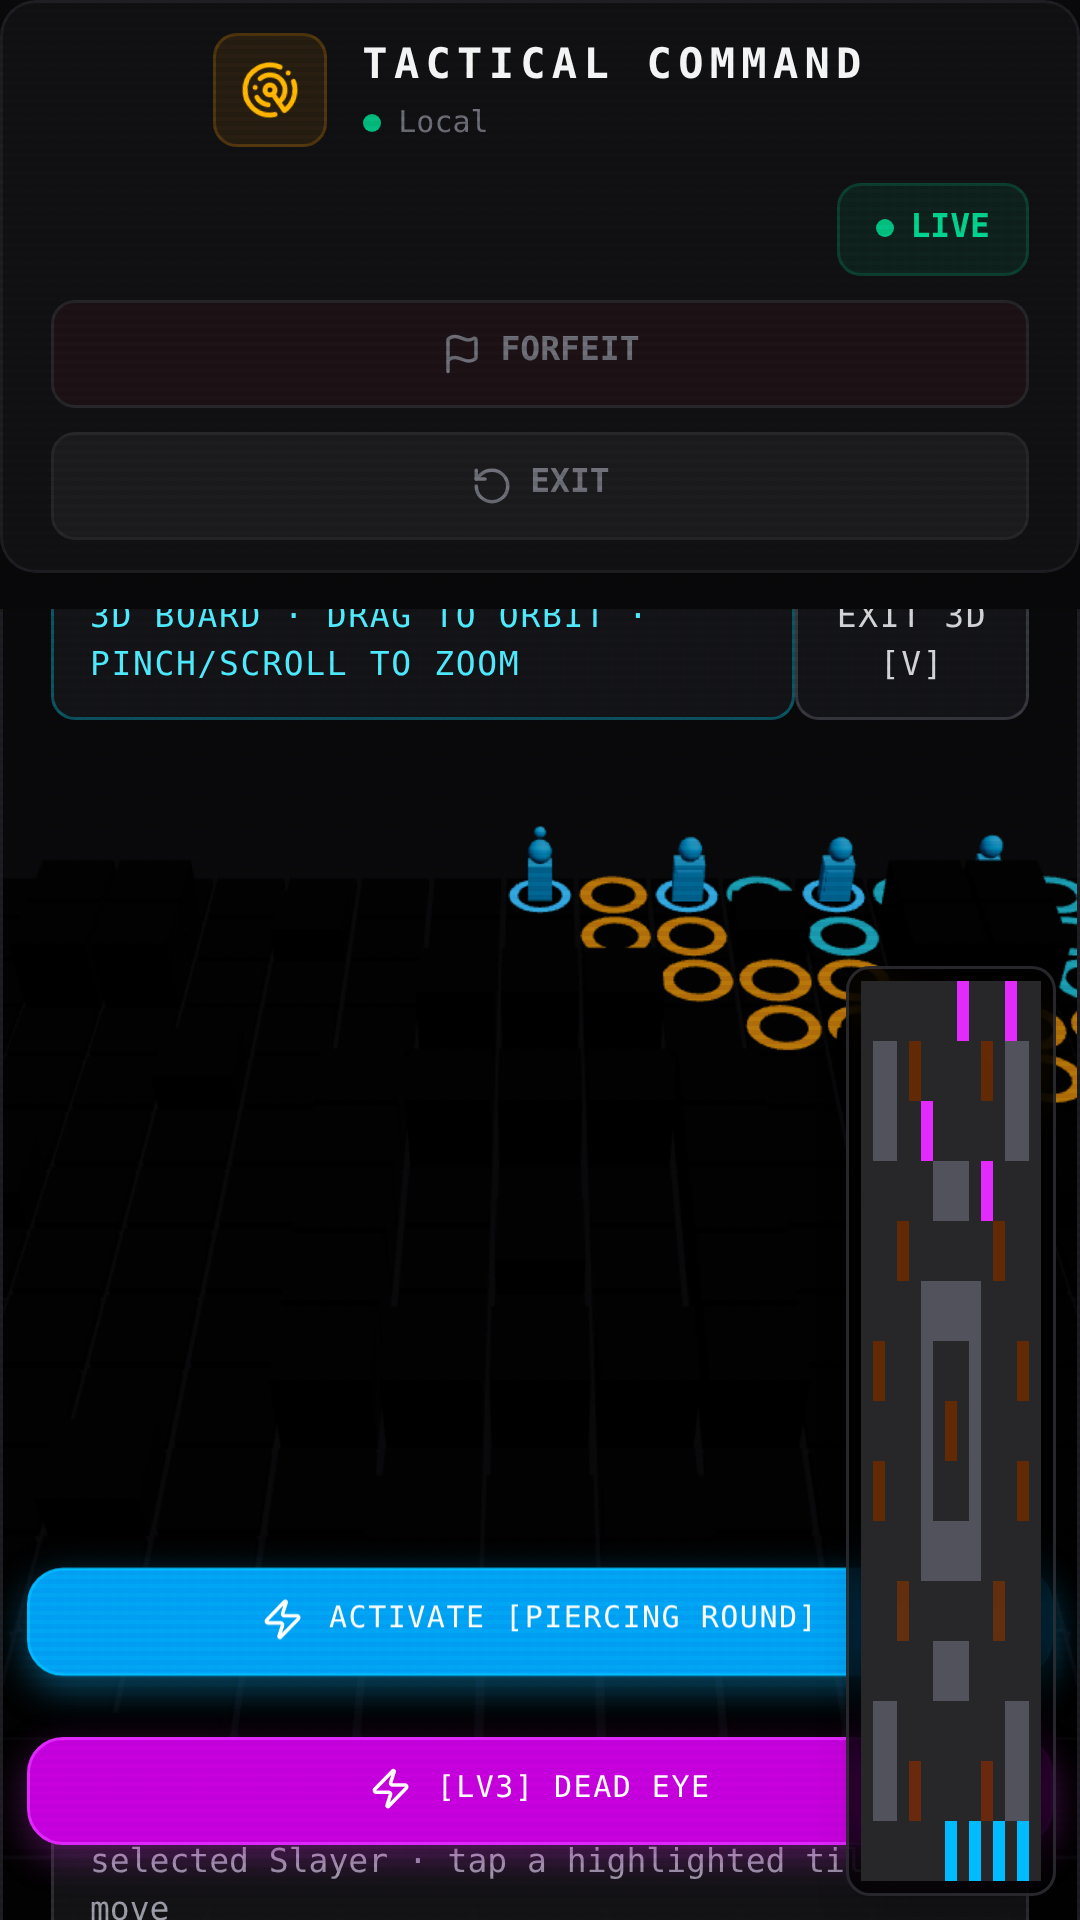
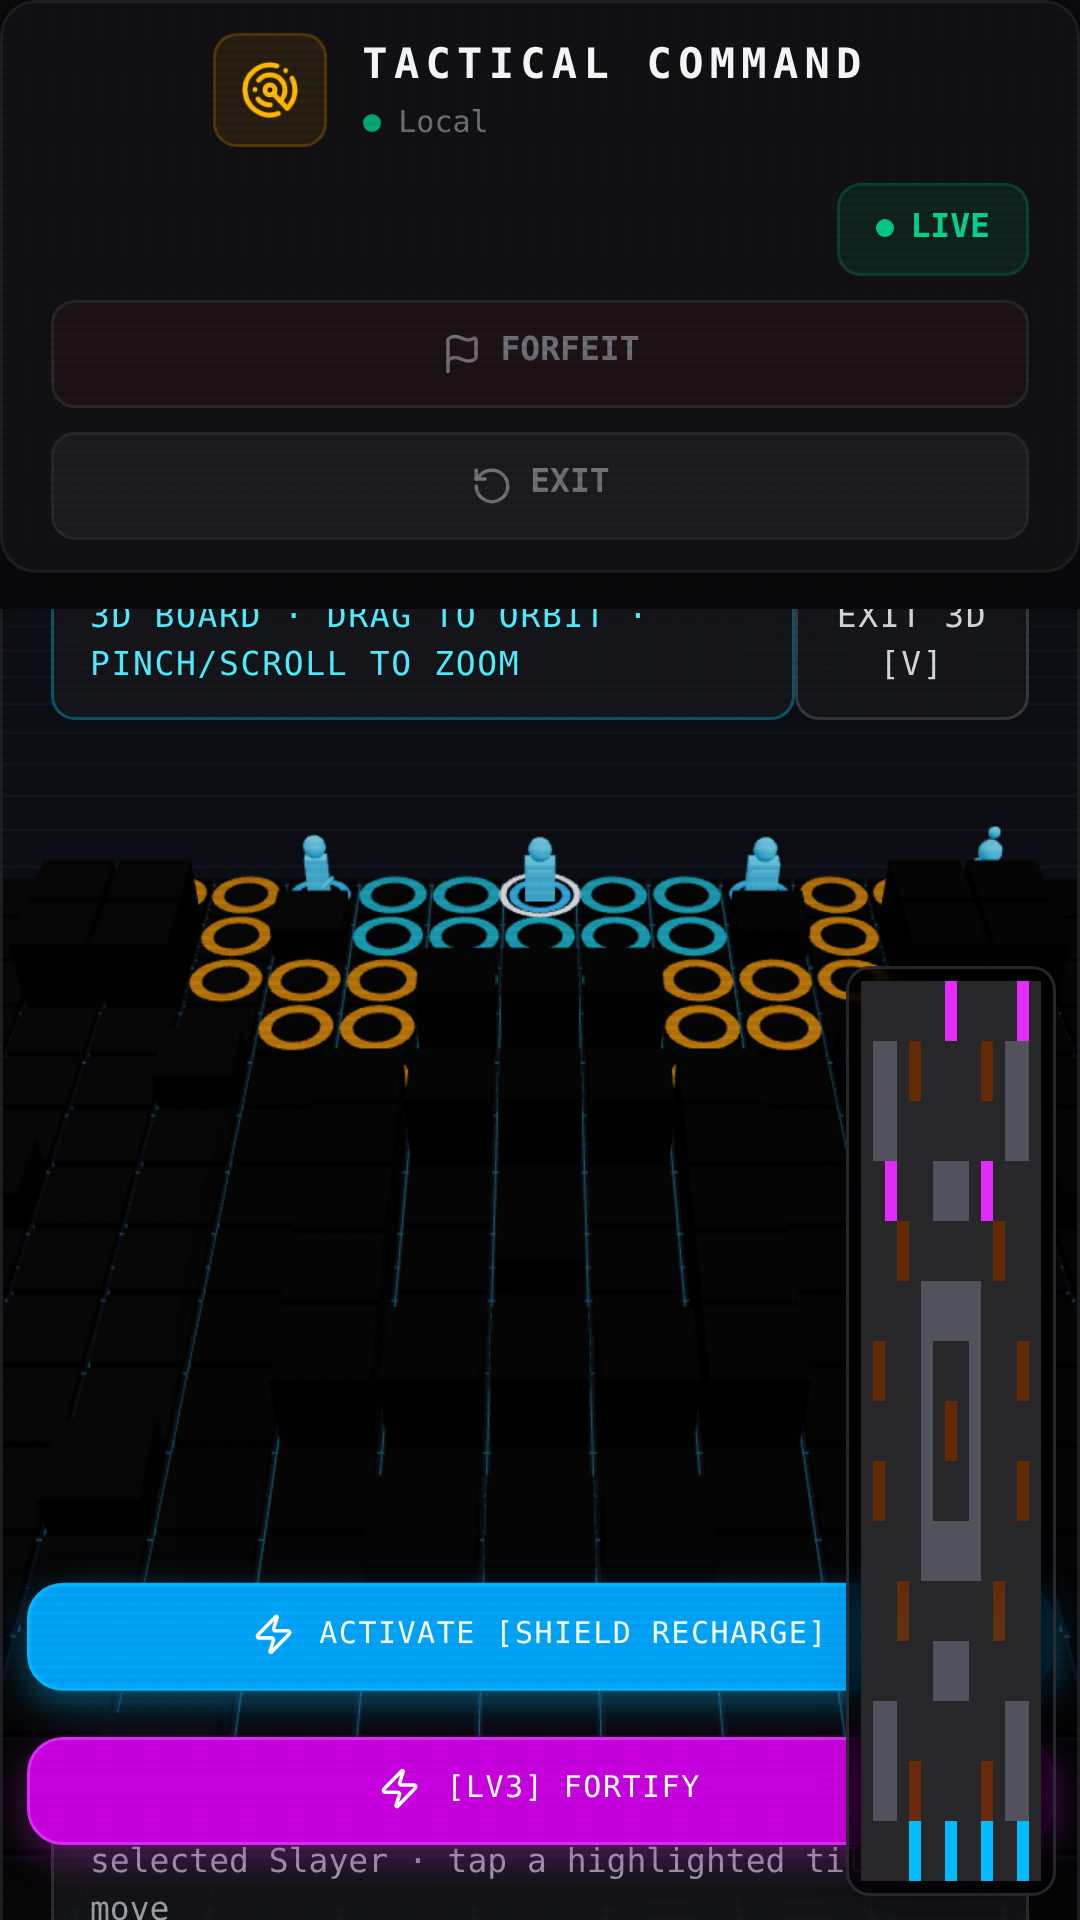
feat(3d): board art pass — arena environment, lit palette, emissive units and hazards
The 3D board shipped as a functional spike and looked like one: near-black
tiles on a black void, no environment, no glow. This pass makes it read as
a finished scene without touching interaction, mapping logic, or perf:

- Arena environment: theme-tinted ground plane + neon grid extending to a
  new fog line, so the board sits inside a space instead of floating in
  nothing. Per-theme arenaFloor + gridAccent added to ThemeAmbience (all
  six Armory themes).
- Lighting rig: hemisphere 0.9→1.15, key 1.1→1.35, new cool fill from the
  far side (walls/units no longer fall to black), theme-tinted overhead
  point light.
- Tile palette lifted out of the void: floor checker #1f2937/#111827 →
  #2b3648/#1d2534, walls #334155 → #46566e — dark-tactical but visible.
- Hazards actually glow: unlit overlay planes on fire/poison tiles via the
  existing hazard flag (was described as 'glowing' but had zero emissive).
- Units self-lit: team-colored emissive (0.38) on all body materials —
  squads read at full-board distance, matching the neon 2D identity.

All static geometry, no shadows, no per-frame work — zero cost under the
demand frameloop. tsc clean; all 95 three/ test assertions pass. Store
screenshot 05 regenerated from the new build (measured: brightness 31.3→
34.6, visible structure 30.3→32.9% in the canvas region; the previously
empty mid-frame now shows terrain + units).

A default-camera reframing for portrait was attempted and reverted after
[…]

diff --git a/src/three/boardMapping.ts b/src/three/boardMapping.ts
@@ -34,7 +34,7 @@ export const FLOOR_HEIGHT = 0.12; // matches the spike's boxGeometry thickness
 export function tileAppearance(type: TerrainType, x = 0, y = 0): TileAppearance {
   switch (type) {
     case 'wall':
-      return { color: '#334155', height: 1.0, hazard: false, solid: true }; // slate-700 block
+      return { color: '#46566e', height: 1.0, hazard: false, solid: true }; // lifted slate block — catches the key light
     case 'crate':
       return { color: '#b45309', height: 0.55, hazard: false, solid: true }; // amber-700 cargo
     case 'barrel':
@@ -48,7 +48,7 @@ export function tileAppearance(type: TerrainType, x = 0, y = 0): TileAppearance 
       // Subtle checkerboard on floor for depth readability (two zinc shades).
       const light = (x + y) % 2 === 0;
       return {
-        color: light ? '#1f2937' : '#111827', // zinc-800 / zinc-900
+        color: light ? '#2b3648' : '#1d2534', // lifted steel-blue checker — reads against the arena floor
         height: FLOOR_HEIGHT,
         hazard: false,
         solid: false,
@@ -69,15 +69,19 @@ export interface ThemeAmbience {
   hemisphereSky: string;
   /** Hemisphere light ground color — echoes the 2D frame's border-* accent. */
   hemisphereGround: string;
+  /** Arena floor plane color — slightly lifted from background so the board sits ON something. */
+  arenaFloor: string;
+  /** Arena grid-line accent — the theme's neon identity extending to the fog line. */
+  gridAccent: string;
 }
 
 const THEME_AMBIENCE: Record<string, ThemeAmbience> = {
-  default: { background: '#09090b', hemisphereSky: '#cbd5e1', hemisphereGround: '#0b1120' }, // Standard Ops
-  arctic: { background: '#020617', hemisphereSky: '#e0f2fe', hemisphereGround: '#083344' }, // Arctic Outpost — slate-950 / cyan cast
-  volcanic: { background: '#0c0a09', hemisphereSky: '#fee2e2', hemisphereGround: '#450a0a' }, // Volcanic Rift — stone-950 / red cast
-  neon: { background: '#2e1065', hemisphereSky: '#f5d0fe', hemisphereGround: '#4a044e' }, // Neon District — violet-950 / fuchsia cast
-  desert: { background: '#451a03', hemisphereSky: '#fef3c7', hemisphereGround: '#78350f' }, // Sandstorm — amber-950 / amber cast
-  jungle: { background: '#022c22', hemisphereSky: '#bbf7d0', hemisphereGround: '#052e16' }, // Deep Canopy — emerald-950 / green cast
+  default: { background: '#09090b', hemisphereSky: '#cbd5e1', hemisphereGround: '#0b1120', arenaFloor: '#161b26', gridAccent: '#155e75' }, // Standard Ops — cyan grid
+  arctic: { background: '#020617', hemisphereSky: '#e0f2fe', hemisphereGround: '#083344', arenaFloor: '#0b1430', gridAccent: '#0e7490' }, // Arctic Outpost
+  volcanic: { background: '#0c0a09', hemisphereSky: '#fee2e2', hemisphereGround: '#450a0a', arenaFloor: '#201613', gridAccent: '#9f1239' }, // Volcanic Rift
+  neon: { background: '#2e1065', hemisphereSky: '#f5d0fe', hemisphereGround: '#4a044e', arenaFloor: '#3d1a85', gridAccent: '#c026d3' }, // Neon District
+  desert: { background: '#451a03', hemisphereSky: '#fef3c7', hemisphereGround: '#78350f', arenaFloor: '#5e2a10', gridAccent: '#d97706' }, // Sandstorm
+  jungle: { background: '#022c22', hemisphereSky: '#bbf7d0', hemisphereGround: '#052e16', arenaFloor: '#0b4437', gridAccent: '#059669' }, // Deep Canopy
 };
 
 /**

diff --git a/src/three/Tiles3D.tsx b/src/three/Tiles3D.tsx
@@ -8,6 +8,7 @@ import {
   instanceIdToGrid,
 } from './gridToWorld';
 import { tileAppearance, FLOOR_HEIGHT } from './boardMapping';
+import { gridToWorld as g2w } from './gridToWorld';
 import type { GridMap } from '../types';
 
 /**
@@ -39,6 +40,25 @@ interface TileVisual {
 export default function Tiles3D({ map, onPick }: Tiles3DProps) {
   const meshRef = useRef<THREE.InstancedMesh>(null);
   const [hovered, setHovered] = useState<number | null>(null);
+
+  // Hazard tiles get an unlit glow plane just above the tile top so fire/poison
+  // actually *glow* in the dark arena instead of reading as flat paint.
+  const hazardGlows = useMemo(() => {
+    if (!map) return [] as { key: string; pos: [number, number, number]; color: string }[];
+    const out: { key: string; pos: [number, number, number]; color: string }[] = [];
+    for (let y = 0; y < map.length; y++) {
+      for (let x = 0; x < (map[y]?.length ?? 0); x++) {
+        const cell = map[y][x];
+        if (!cell) continue;
+        const a = tileAppearance(cell.type, x, y);
+        if (a.hazard) {
+          const [wx, , wz] = g2w(x, y, 0);
+          out.push({ key: `${x}-${y}`, pos: [wx, a.height + 0.01, wz], color: a.color });
+        }
+      }
+    }
+    return out;
+  }, [map]);
 
   // Per-instance color + height, derived once from the map (or checkerboard).
   const visuals = useMemo<TileVisual[]>(() => {
@@ -105,6 +125,7 @@ export default function Tiles3D({ map, onPick }: Tiles3DProps) {
   };
 
   return (
+    <>
     <instancedMesh
       ref={meshRef}
       args={[undefined, undefined, TILE_COUNT]}
@@ -116,8 +137,15 @@ export default function Tiles3D({ map, onPick }: Tiles3DProps) {
     >
       {/* thin unit tile: full width/depth, slight gap via 0.92 scale; Y scaled per instance */}
       <boxGeometry args={[0.92, BASE_THICKNESS, 0.92]} />
-      <meshStandardMaterial vertexColors roughness={0.85} metalness={0.05} />
+      <meshStandardMaterial vertexColors roughness={0.8} metalness={0.1} />
     </instancedMesh>
+    {hazardGlows.map((h) => (
+      <mesh key={h.key} position={h.pos} rotation={[-Math.PI / 2, 0, 0]}>
+        <planeGeometry args={[0.8, 0.8]} />
+        <meshBasicMaterial color={h.color} toneMapped={false} transparent opacity={0.5} />
+      </mesh>
+    ))}
+    </>
   );
 }
 

diff --git a/src/three/Board3DSpike.tsx b/src/three/Board3DSpike.tsx
@@ -115,8 +115,22 @@ export default function Board3DSpike({
         style={{ position: 'absolute', inset: 0 }}
       >
         <color attach="background" args={[ambience.background]} />
-        <hemisphereLight args={[ambience.hemisphereSky, ambience.hemisphereGround, 0.9]} />
-        <directionalLight position={[6, 14, 8]} intensity={1.1} />
+        {/* Fog fades the arena floor into the theme background — depth instead of void. */}
+        <fog attach="fog" args={[ambience.background, 18, 48]} />
+        <hemisphereLight args={[ambience.hemisphereSky, ambience.hemisphereGround, 1.15]} />
+        <directionalLight position={[6, 14, 8]} intensity={1.35} />
+        {/* Cool fill from behind so far-side walls/units don't fall to black. */}
+        <directionalLight position={[-8, 10, -6]} intensity={0.45} />
+        {/* Theme-tinted overhead glow centered on the arena. */}
+        <pointLight position={[0, 9, 0]} intensity={0.5} color={ambience.hemisphereSky} distance={30} />
+        {/* Arena environment: a ground plane + neon grid extending to the fog line,
+            so the board sits inside a space instead of floating in nothing. */}
+        <mesh rotation={[-Math.PI / 2, 0, 0]} position={[0, -0.03, 0]}>
+          <planeGeometry args={[90, 90]} />
+          <meshStandardMaterial color={ambience.arenaFloor} roughness={1} metalness={0} />
+        </mesh>
+        <gridHelper args={[90, 90, ambience.gridAccent, ambience.arenaFloor]} position={[0, -0.02, 0]} />
+        <gridHelper args={[15, 15, ambience.gridAccent, ambience.gridAccent]} position={[0, -0.01, 0]} />
         <ContextLossWatcher onContextLost={onContextLost} />
         <CameraRig shake={shake} zoomLevel={zoomLevel} />
         <Tiles3D

diff --git a/src/three/Units3D.tsx b/src/three/Units3D.tsx
@@ -108,11 +108,11 @@ function UnitToken({
       {/* Low-poly body: torso box + head sphere, both lit (matches Tiles3D's material) so units read as part of the same 3D scene rather than a flat sprite. */}
       <mesh position={[0, torsoCenterY, 0]}>
         <boxGeometry args={spec.torso} />
-        <meshStandardMaterial ref={setMat(0)} color={color} roughness={0.85} metalness={0.05} />
+        <meshStandardMaterial ref={setMat(0)} color={color} roughness={0.7} metalness={0.1} emissive={color} emissiveIntensity={0.38} />
       </mesh>
       <mesh position={[0, headCenterY, 0]}>
         <sphereGeometry args={[spec.headRadius, 12, 10]} />
-        <meshStandardMaterial ref={setMat(1)} color={color} roughness={0.85} metalness={0.05} />
+        <meshStandardMaterial ref={setMat(1)} color={color} roughness={0.7} metalness={0.1} emissive={color} emissiveIntensity={0.38} />
       </mesh>
 
       {/* Archetype-specific accessories — the actual silhouette differentiator (see archetypeSilhouette.ts). */}
@@ -132,7 +132,7 @@ function UnitToken({
         return (
           <mesh key={i} position={pos} rotation={rot}>
             {geometry}
-            <meshStandardMaterial ref={setMat(2 + i)} color={color} roughness={0.85} metalness={0.05} />
+            <meshStandardMaterial ref={setMat(2 + i)} color={color} roughness={0.7} metalness={0.1} emissive={color} emissiveIntensity={0.38} />
           </mesh>
         );
       })}
